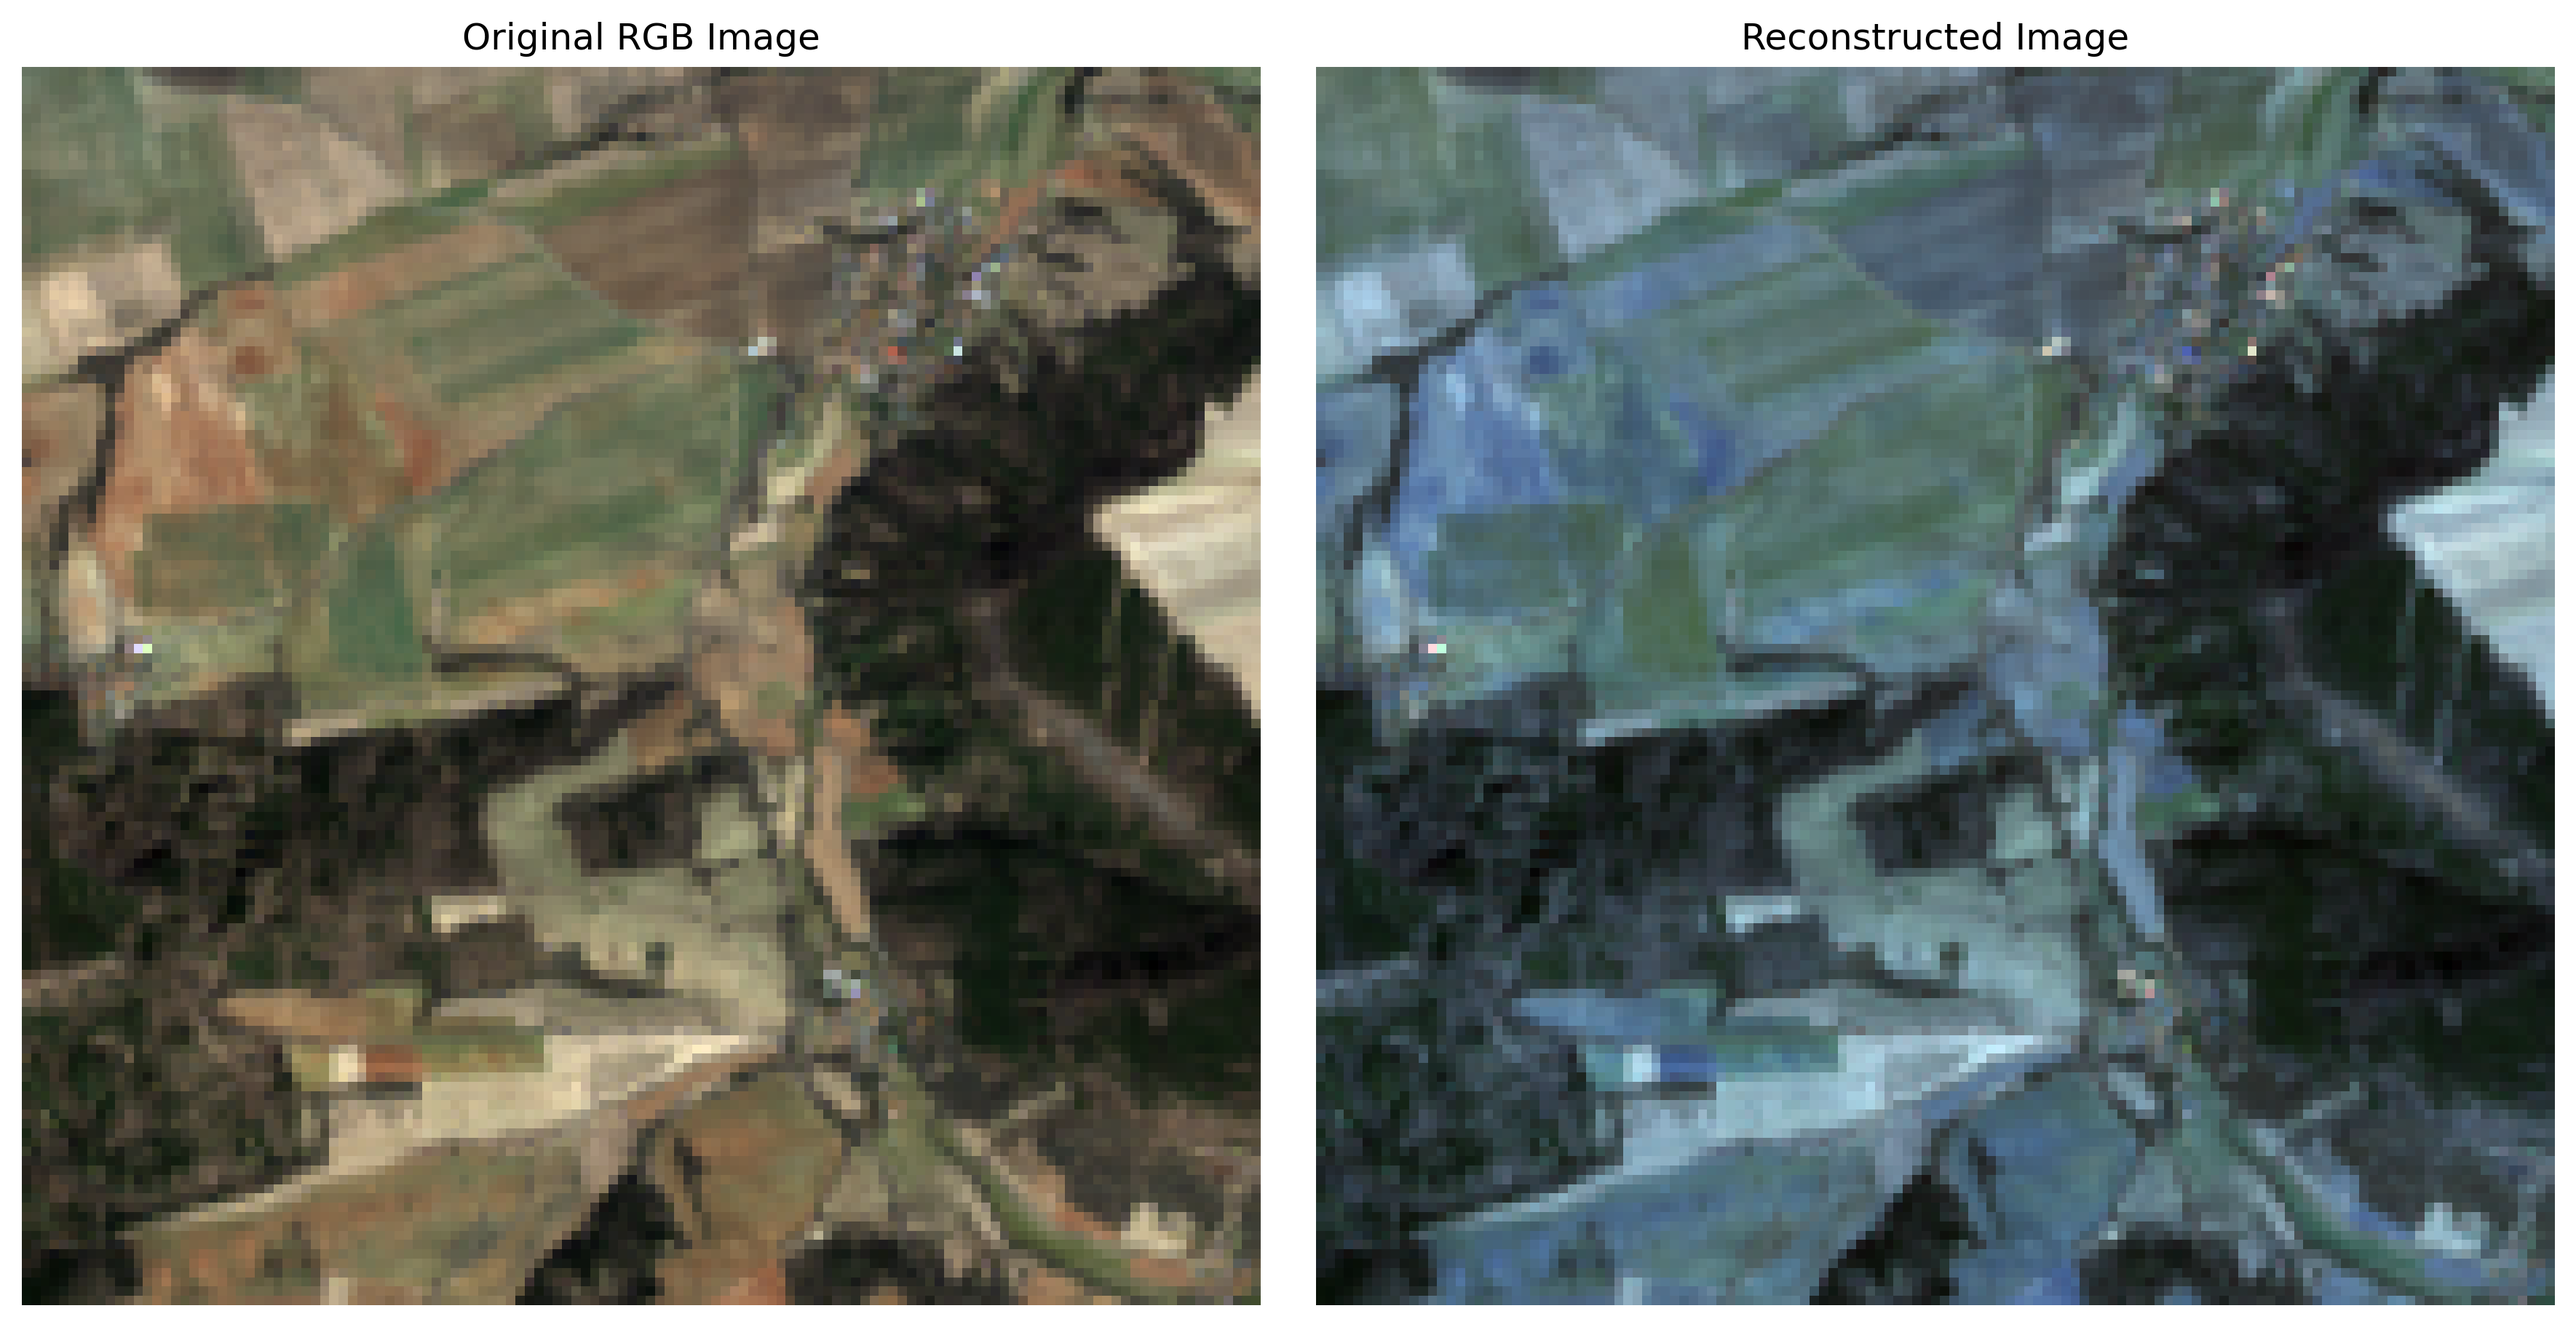
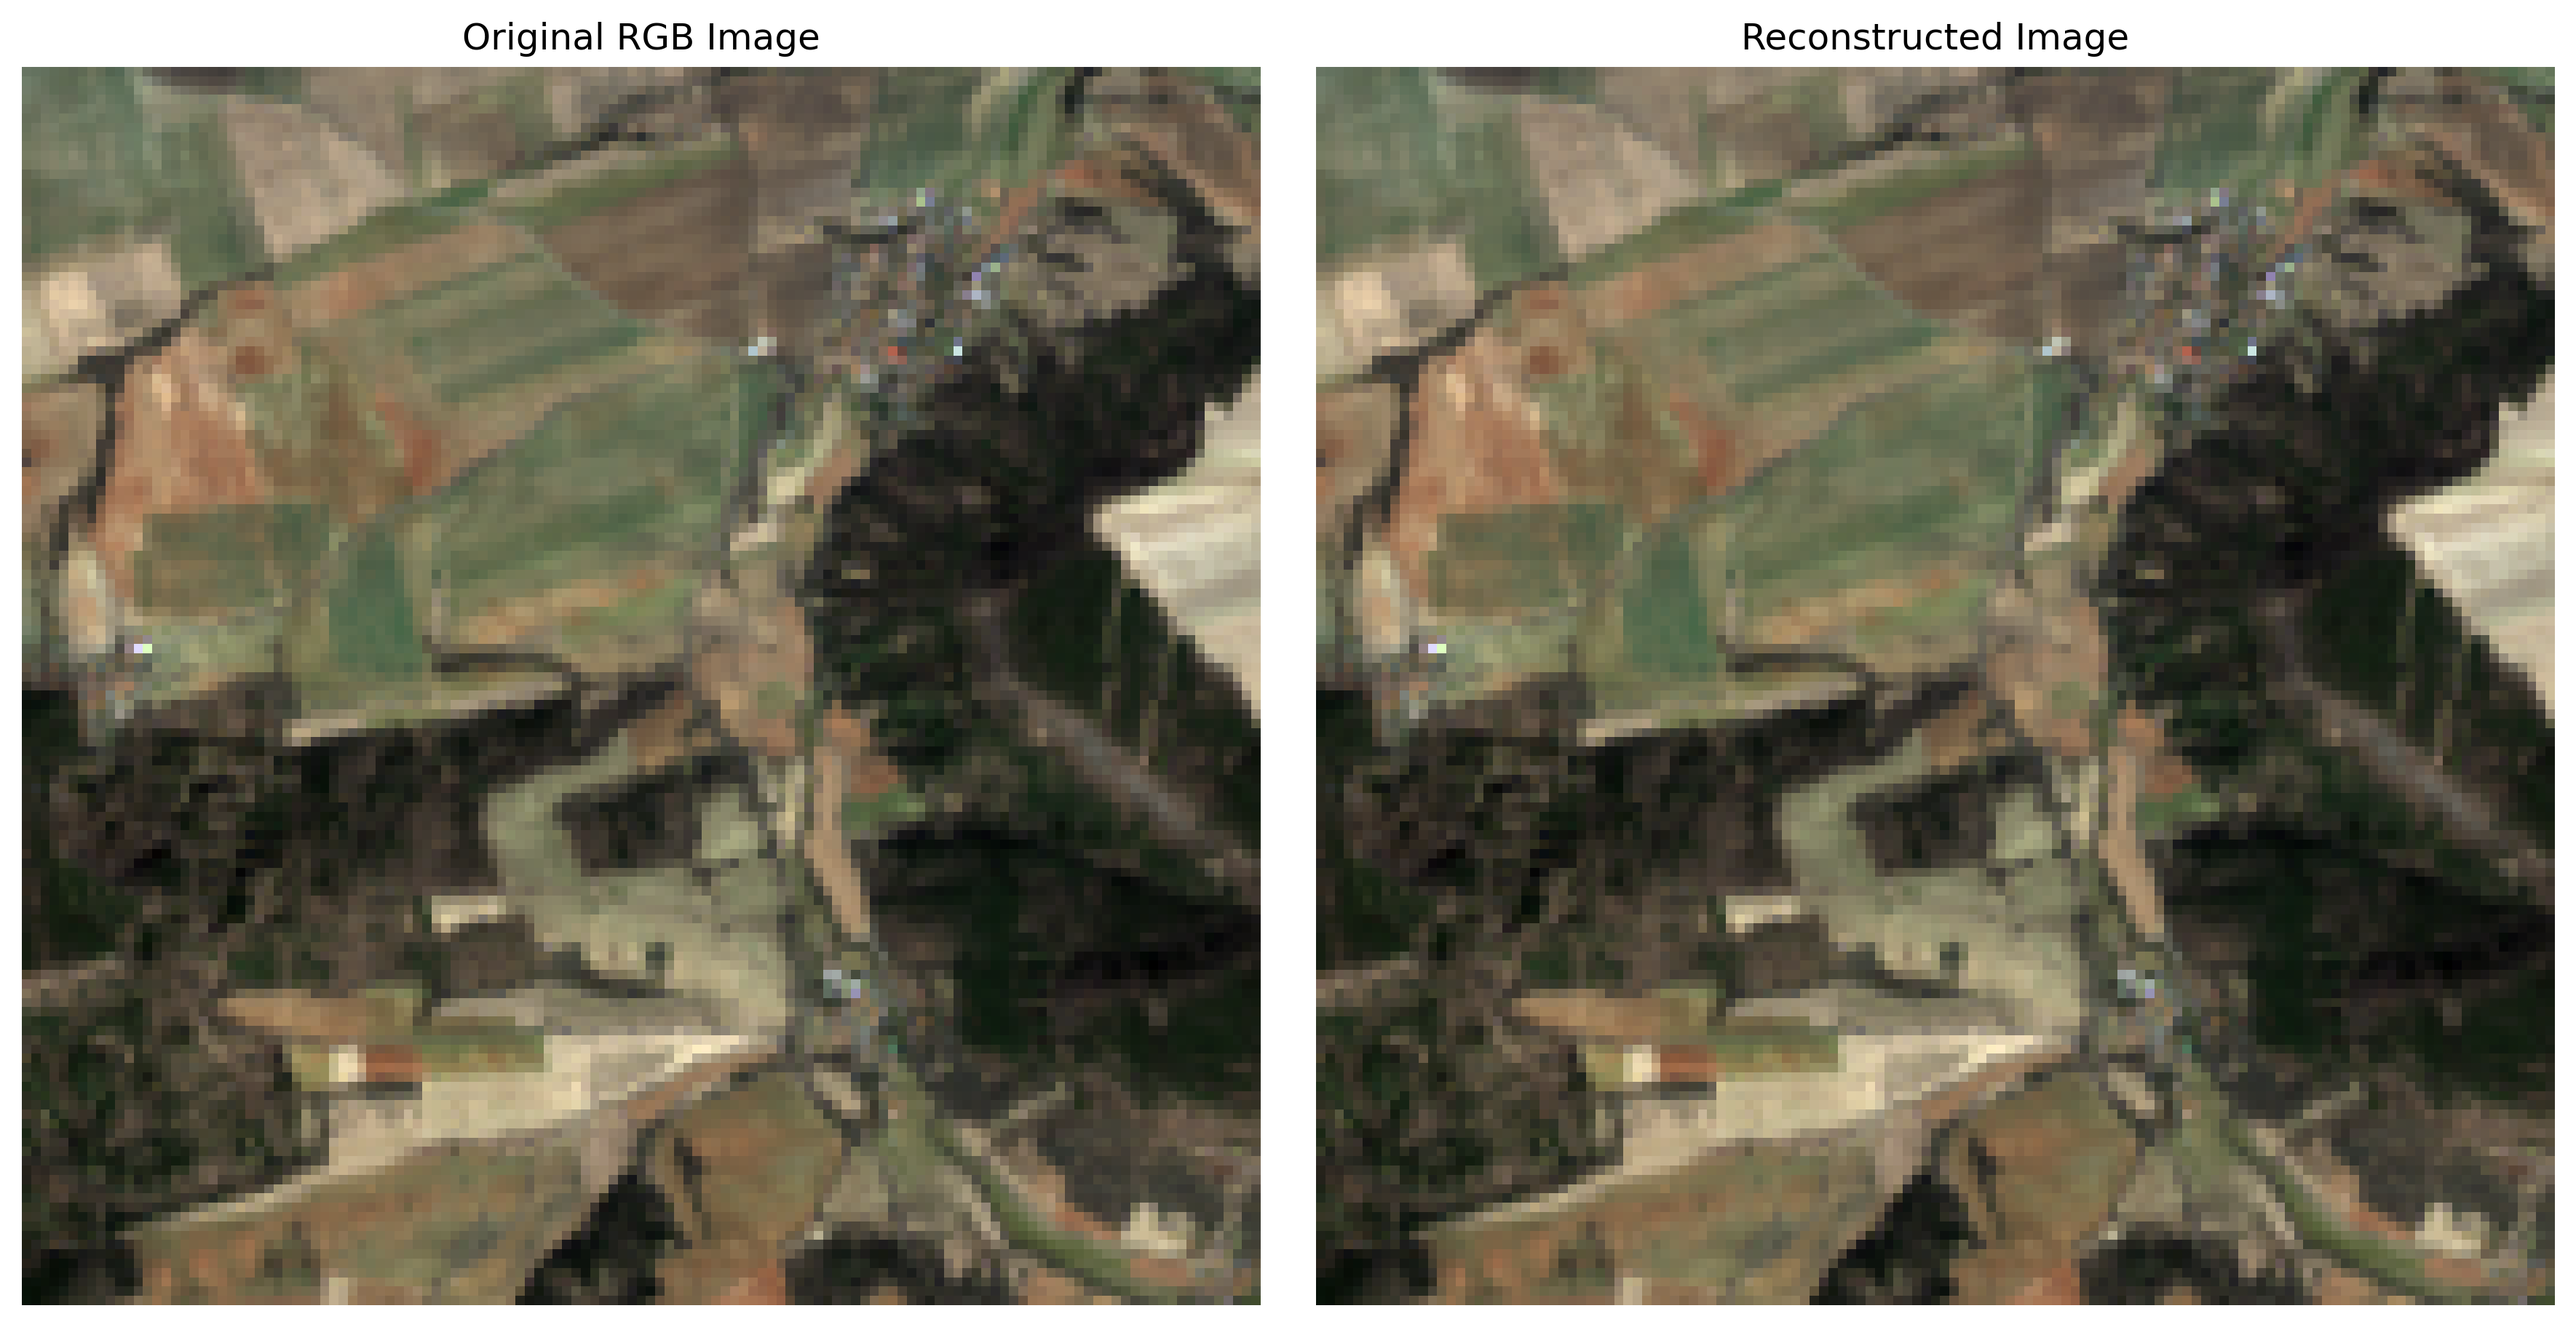
task 03 pca: loaded bands in correct order

diff --git a/task_03_pca.py b/task_03_pca.py
@@ -4,6 +4,7 @@ import numpy as np
 import os
 import matplotlib.pyplot as plt
 from sklearn.decomposition import PCA
+from sklearn.preprocessing import StandardScaler
 
 image_metadata = r"data\21_03_2022_clipped\LC08_L1TP_192025_20220321_20220329_02_T1_MTL.txt"
 data_dir = r"data\21_03_2022_clipped"
@@ -42,9 +43,8 @@ def create_rgb_image(calib_bands):
 
 def aprox_reshape(data): #entering (70756, 3)
     shaped_list = []
-    for i in range(3):
+    for i in range(2,-1, -1):
         reshaped = data[i].reshape(266,266)
-        print(reshaped.shape)
         shaped_list.append(scale_vals(reshaped))
     return np.dstack(shaped_list)
 
@@ -60,11 +60,13 @@ flat_upscaled = np.stack(flatten(upscaled_rgb, rgb))
 print(f"flat_upscaled: {flat_upscaled.shape}")
 
 flat_upscaled_t = flat_upscaled.T #PCA needs pixels x bands
+scaler = StandardScaler() #Scaler shouldnt be neccesary here (high data similarity across bands and radiometric correction), but it is good practice
+data = scaler.fit_transform(flat_upscaled_t)
 
 print(f"flat_upscaled_t: {flat_upscaled_t.shape}")
 
 pca = PCA() #create PCA instance
-lower_dimensional_data = pca.fit_transform(flat_upscaled_t)
+lower_dimensional_data = pca.fit_transform(data)
 print(f"lower_dimensional_data: {lower_dimensional_data.shape}")
 print(f"pca components: {pca.n_components_}")
 approximation = pca.inverse_transform(lower_dimensional_data)
